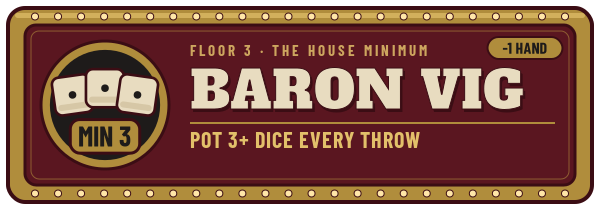
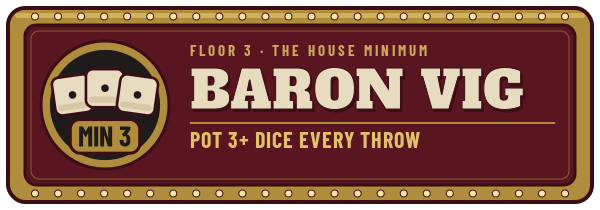
Baron Vig sign: pill-free art; -1 HAND pill as a Label from hands_delta; tooltip/alt text from data (#136 QA)
- sign_baron_vig@1x/@2x regenerated without the baked pill
- RunRuleData.sign_hand_pill + hand_pill_text()/sign_tooltip()/sign_alt()
- BossSign.update_hand_pill: brass pill Label, hidden at hands_delta 0
- test_boss_signs: hands_delta -2/+1/0 updates pill, tooltip and alt text
- ARCHITECTURE.md + AI_CONTENT_LOG.md entries

Changed region(s): [[0.81, 0.1714, 0.96, 0.2857]]

diff --git a/docs/AI_CONTENT_LOG.md b/docs/AI_CONTENT_LOG.md
@@ -45,6 +45,7 @@ VFX Dev = FX textures and shaders, Game Designer = text. Sources are in brackets
 | `assets/branding/studio/layers.json` (#71) | **AI-assisted (agent-written script):** written by `src/build.py` | Sizes and pivots of the splash layers, read by the splash at runtime. [assets/branding/studio/README.md "Other": "generated by the build"] | 2026-10-18, last change 2026-10-19 | Art Director |
 | `assets/branding/studio/splash_timings.json` (#71) | **AI-generated:** config written by Grok Bot agents (which agent isn't recorded); it mirrors the motion spec `splash_motion.md` | Splash motion timings, positions and SFX cue times, read at runtime. [assets/branding/studio/README.md "Other"; git history] | 2026-10-18, last change 2026-10-19 | Art Director |
 | `assets/bosses/floor3/` (`sign_baron_vig`, `sign_odds_bodkin`, `icon_*_rule_128`; the unused 256 px icons were not shipped). | **AI-assisted (agent-written script):** `build_signs.py` with OFL fonts (Alfa Slab One, Barlow Condensed); no AI image generation | Floor 3 boss signs and rule icons. [Art Director, 2026-10-19] | 2026-10-19 (on `main` via #108, 697c8e2) | Art Director |
+| `assets/bosses/floor3/sign_baron_vig@1x.png`, `@2x.png` (#136, regenerated pill-free) | **AI-assisted (agent-written script):** `build_signs.py` from `signs_strings.json` (no `corner_badge`), OFL fonts; no AI image generation | Baron Vig sign without the "-1 HAND" pill; the pill is now a code-drawn Label from `hands_delta` (`BossSign.update_hand_pill`). [Art Director, team art folder `bosses_floor3/`] | 2026-10-22 | Art Director |
 | `fonts/AlfaSlabOne-Regular.ttf`, `fonts/BarlowCondensed-Bold.ttf`, `fonts/BarlowCondensed-SemiBold.ttf` | **Not AI (third-party):** The Alfa Slab One Project Authors; The Barlow Project Authors; SIL OFL 1.1 | UI and HUD type. Fredoka (also OFL, by The Fredoka Project Authors) ships only as outlines inside the wordmarks, not as a font file. [fonts/OFL-alfaslabone.txt, fonts/OFL-barlowcondensed.txt, assets/branding/studio/src/OFL.txt] | 2026-10-18 | Art Director |
 | `art/models/dice/bone_d6.glb` + its materials (`materials/bone_*.tres`, `die_ink_*.tres`) | **AI-assisted (agent-written script):** Blender 4.5 LTS Python script `art/models/dice/src/build_dice.py` | Standard die model. No third-party assets, textures or fonts. [art/models/dice/README.md; 3D Artist ruling via PM] | 2026-10-18 | 3D Artist |
 | `art/models/dice/{mirror,twin_flame,wanderer,cracked,gilded,hellfire,bellows,blood_pact,coven,last_breath}_d6.glb` + `materials/*.tres` | **AI-assisted (agent-written script):** Blender 4.5 LTS `src/build_special_dice.py`; batch-2 materials and import mapping from `src/write_batch2.py` | Special dice models. [art/models/dice/SPECIAL_DICE.md, README.md] | 2026-10-18, last change 2026-10-19 | 3D Artist |

diff --git a/docs/ARCHITECTURE.md b/docs/ARCHITECTURE.md
@@ -81,6 +81,7 @@ Tests for an area live next to it in `tests/test_<area>*.gd` (e.g. `test_map_run
 | `DieCard.create(info, read_only)`, `set_die(...)`; `face_picked(face_index)` | `scripts/ui/die_card.gd` | one die's card built in code: "name - ability", the next mod's price, one button per face with "Face n: mod" tooltips. Read-only cards disable every face; otherwise `allowed` decides which faces can be picked |
 | `DicePanel.build(progress, opts)`, `seal_lines()`; `picked(Vector2i(die, face))` | `scripts/map/dice_panel.gd` | the "Your dice" view: a `DieCard` per die plus the "Your Seals" strip. Read-only from the map; in pick mode (shop, Rest carve, events) it replaces the old face picker |
 | `TablePreview.boss_rules(run)`, `dice_row(progress, on_open)`, `add_boss_sign(...)` | `scripts/map/table_preview.gd` | pieces of `RunScreen`'s table preview, split out to keep `run_screen.gd` small: the boss rule line, the mini dice row and the boss intro sign |
+| `BossSign.make_sign(r, ...)`, `update_hand_pill(sign, r)`; `RunRuleData.hand_pill_text()`, `sign_tooltip()`, `sign_alt()` | `scripts/map/boss_sign.gd`, `scripts/data/run_rule_data.gd` | boss sign art is text-baked except hand changes: with `sign_hand_pill` (Baron Vig) the "%+d HAND" brass pill is a Label over the pill-free art, hidden at `hands_delta` 0; tooltip and alt text append the hands part from `hands_delta` (#136) |
 | `MapKey.all_lines()` | `scripts/map/map_key.gd` | the map key: one line per node type plus the path and re-sit rules, docked on the map's right edge. Opens by itself on a profile's first map (`RunProfile`), collapsed from Floor 2 on; the Key button or K toggles it |
 | `MiniDiceRow.build(progress)`, `tile_text()`; `opened` | `scripts/map/mini_dice_row.gd` | the table preview's mini dice row: one tile per die in table order under "Your dice · n/max"; any tile opens the read-only `DicePanel` |
 
